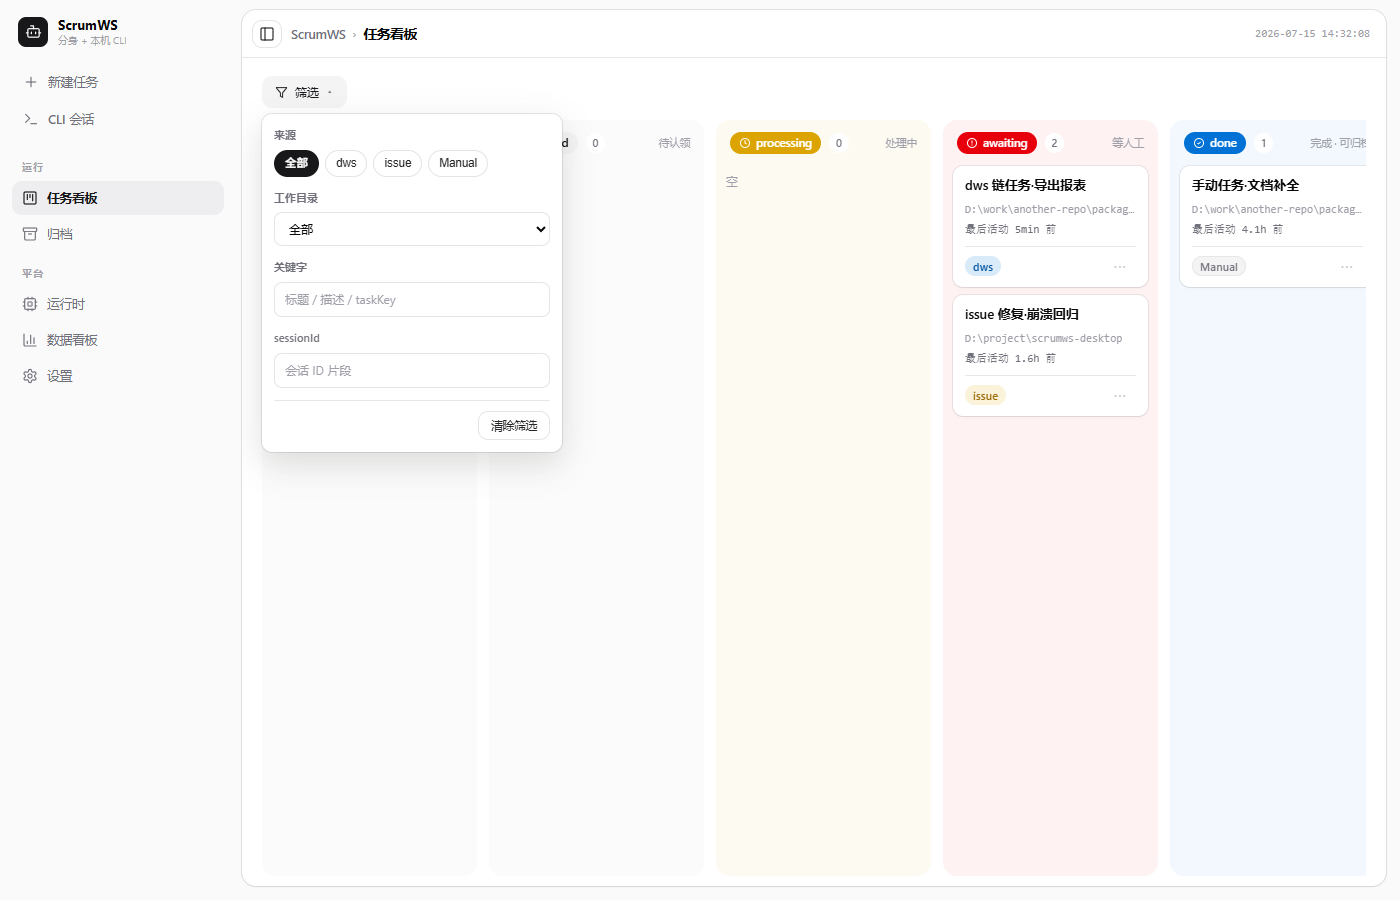
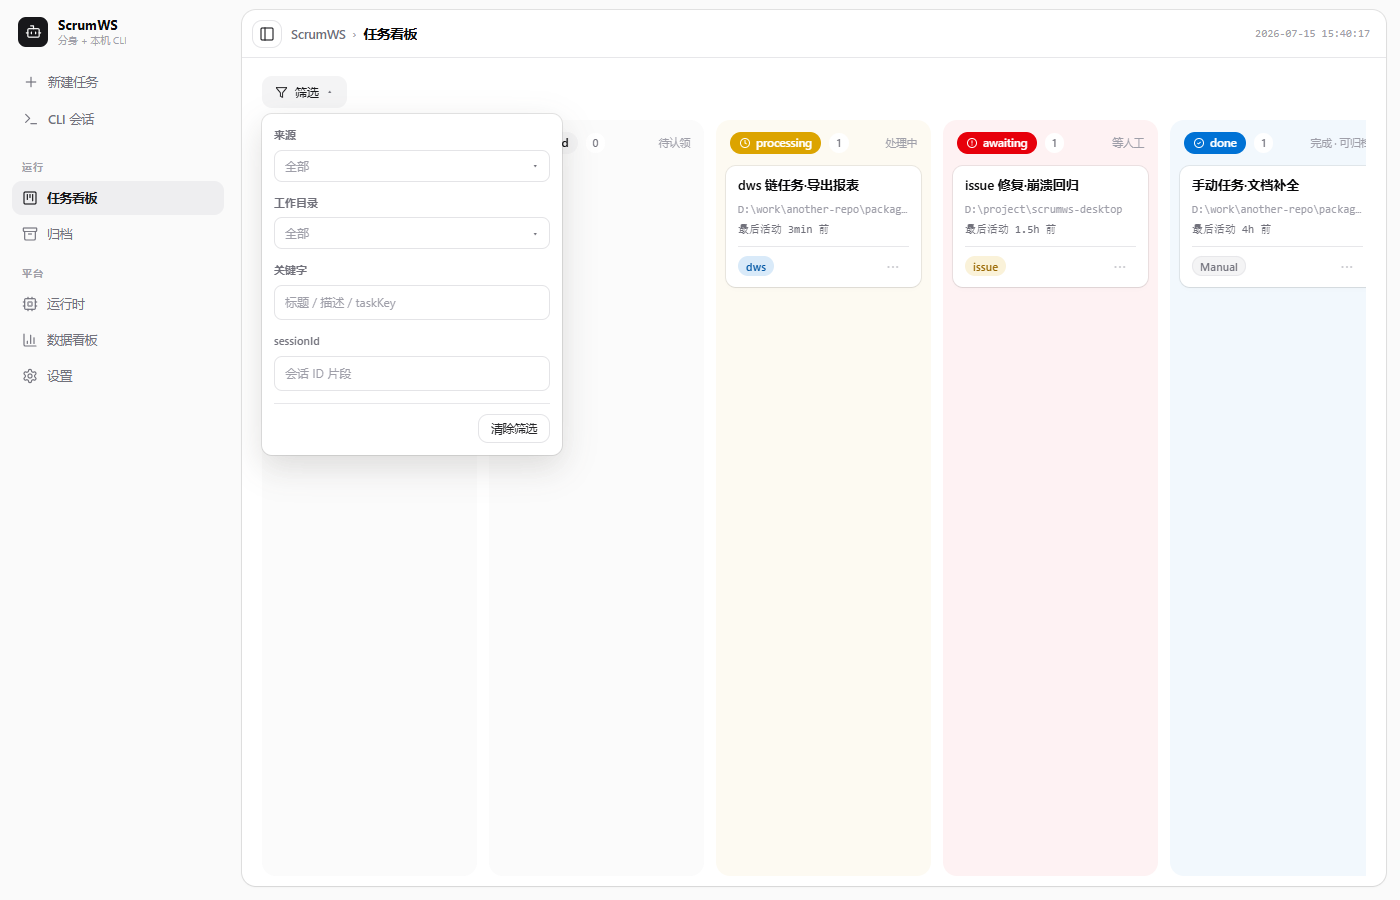
任务看板筛选：来源/工作目录改自定义下拉（不用原生 select）
承接 #21 收尾。筛选面板里的来源、工作目录两项从原来的 chip / 原生 <select> 统一改为自定义下拉，
选项面板对齐新建任务表单的工作目录范式（.cwd-menu：popover / mono 路径 / 截断省略 / hover-accent / 选中 ✓）。

- index.html：删 .fp-chips/.fp-chip；新增 .fp-dd*（触发按钮 + .fp-dd-menu 选项面板）。
  #fpSourceChips（chips）与 #fpCwd（<select>）→ 两个 .fp-dd（fpSourceBtn/Menu、fpCwdBtn/Menu）。
- app.js：新增 makeFilterDropdown 工厂（来源/工作目录共用；菜单打开时按 items() 现取选项永远最新、
  触发按钮标签随选择更新、点外关闭）。updateBoardFilterOptions 只维护 boardSources/boardCwds 数据源；
  syncBoardFilterUi 改走 srcDD/cwdDD.syncLabel()；initBoardFilter 建两下拉、删旧 chip/select 事件。

验证：真实 Chrome 24/24 PASS（docs/acceptance/board-filter-iteration/round-2.md + 截图）。

diff --git a/platform/public/app.js b/platform/public/app.js
@@ -463,9 +463,11 @@ window.openCardMenu = openCardMenu;
 
 // ================= 看板筛选（来源 / 工作目录 / 关键字 / sessionId）=================
 // 视图层筛选：状态存 boardFilter，renderLifecycle 渲染前按 matchesBoardFilter 过滤各桶（计数随之显可见数）。
-// 来源 / 工作目录选项从真实任务数据动态生成（不写死），关键字 / sessionId 走子串匹配。
+// 来源 / 工作目录用自定义下拉（不用原生 select，选项面板对齐新建任务 .cwd-menu 范式），选项从真实任务数据动态取；
+// 关键字 / sessionId 走子串匹配。
 let boardFilter = { source: '', cwd: '', keyword: '', sessionId: '' };
-let _boardFilterOptSig = '';   // 选项签名：数据变了才重建 chip/option DOM，避免每次刷新清空用户交互
+let boardSources = [], boardCwds = [];   // 真实任务里出现过的来源 / 工作目录全集（下拉选项数据源）
+let srcDD = null, cwdDD = null;           // 两个自定义下拉实例（initBoardFilter 里建）
 
 function cwdOf(t) { return t.cwd || t.cli?.cwd || ''; }
 
@@ -489,34 +491,60 @@ function allLifecycleTasks(lifecycle) {
     .filter(Boolean).flat();
 }
 
-// 依真实数据刷新筛选面板选项（保留当前选择；选项集不变则不重建 DOM，不打断用户交互）
+// 自定义筛选下拉工厂（来源 / 工作目录共用一套；选项面板 = .fp-dd-menu，菜单每次打开按 items() 现取，选项永远最新）
+function makeFilterDropdown({ btnId, menuId, items, getValue, onPick }) {
+  const btn = $(btnId), menu = $(menuId);
+  if (!btn || !menu) return null;
+  const labelEl = btn.querySelector('.fp-dd-label');
+  let outside = null;
+  const close = () => {
+    menu.classList.remove('open'); btn.classList.remove('open');
+    if (outside) { document.removeEventListener('mousedown', outside, true); outside = null; }
+  };
+  const render = () => {
+    const cur = getValue();
+    const list = items();
+    menu.innerHTML = list.length
+      ? list.map((it) => `<div class="fp-dd-item${it.value === cur ? ' active' : ''}" role="option" data-val="${escapeAttr(it.value)}"><span class="fp-dd-path" title="${escapeAttr(it.title || it.label)}">${escapeHtml(it.label)}</span><span class="fp-dd-check">✓</span></div>`).join('')
+      : `<div class="cwd-empty">暂无可选项</div>`;
+  };
+  const open = () => {
+    render(); menu.classList.add('open'); btn.classList.add('open');
+    outside = (e) => { if (!menu.contains(e.target) && !btn.contains(e.target)) close(); };
+    setTimeout(() => document.addEventListener('mousedown', outside, true), 0);
+  };
+  btn.addEventListener('click', () => (menu.classList.contains('open') ? close() : open()));
+  menu.addEventListener('click', (e) => {
+    const it = e.target.closest('.fp-dd-item'); if (!it) return;
+    onPick(it.dataset.val); close();
+  });
+  const syncLabel = () => {
+    const cur = getValue();
+    const found = items().find((i) => i.value === cur);
+    labelEl.textContent = found ? found.label : '全部';
+    labelEl.title = found ? (found.title || found.label) : '';
+    labelEl.classList.toggle('dim', !cur);
+  };
+  return { syncLabel, close };
+}
+
+const sourceDropItems = () => [{ value: '', label: '全部' }, ...boardSources.map((s) => ({ value: s, label: sourceLabel(s) }))];
+const cwdDropItems = () => [{ value: '', label: '全部' }, ...boardCwds.map((c) => ({ value: c, label: c.length > 44 ? '…' + c.slice(-42) : c, title: c }))];
+
+// 依真实数据刷新筛选选项数据源（选中项若已不存在则回落全部）；菜单是打开时现取，不必重建 DOM
 function updateBoardFilterOptions(lifecycle) {
   const all = allLifecycleTasks(lifecycle);
-  const sources = [...new Set(all.map((t) => t.source).filter(Boolean))].sort();
-  const cwds = [...new Set(all.map(cwdOf).filter(Boolean))].sort();
-  const sig = JSON.stringify([sources, cwds]);
-  if (sig !== _boardFilterOptSig) {
-    _boardFilterOptSig = sig;
-    const chips = $('fpSourceChips');
-    if (chips) chips.innerHTML = ['', ...sources].map((s) =>
-      `<button class="fp-chip" data-src="${escapeAttr(s)}">${s ? escapeHtml(sourceLabel(s)) : '全部'}</button>`).join('');
-    const sel = $('fpCwd');
-    if (sel) sel.innerHTML = `<option value="">全部</option>` + cwds.map((c) => {
-      const short = c.length > 44 ? '…' + c.slice(-42) : c;
-      return `<option value="${escapeAttr(c)}">${escapeHtml(short)}</option>`;
-    }).join('');
-  }
-  // 选中项因数据变化不复存在 → 回落全部
-  if (boardFilter.source && !sources.includes(boardFilter.source)) boardFilter.source = '';
-  if (boardFilter.cwd && !cwds.includes(boardFilter.cwd)) boardFilter.cwd = '';
+  boardSources = [...new Set(all.map((t) => t.source).filter(Boolean))].sort();
+  boardCwds = [...new Set(all.map(cwdOf).filter(Boolean))].sort();
+  if (boardFilter.source && !boardSources.includes(boardFilter.source)) boardFilter.source = '';
+  if (boardFilter.cwd && !boardCwds.includes(boardFilter.cwd)) boardFilter.cwd = '';
   syncBoardFilterUi();
 }
 
-// 把 boardFilter 反映到面板 UI（chip 高亮 / select 值 / 输入框 / 徽章）
+// 把 boardFilter 反映到面板 UI（下拉标签 / 输入框 / 激活数徽章）
 function syncBoardFilterUi() {
-  document.querySelectorAll('#fpSourceChips .fp-chip').forEach((c) =>
-    c.classList.toggle('active', (c.dataset.src || '') === boardFilter.source));
-  const sel = $('fpCwd'); if (sel && sel.value !== boardFilter.cwd) sel.value = boardFilter.cwd;
+  srcDD?.syncLabel();
+  cwdDD?.syncLabel();
   const kw = $('fpKeyword'); if (kw && kw.value !== boardFilter.keyword) kw.value = boardFilter.keyword;
   const sid = $('fpSessionId'); if (sid && sid.value !== boardFilter.sessionId) sid.value = boardFilter.sessionId;
   const n = ['source', 'cwd', 'keyword', 'sessionId'].filter((k) => boardFilter[k]).length;
@@ -561,7 +589,7 @@ function renderLifecycle(lifecycle) {
   }
 }
 
-// ---- 筛选面板交互（按钮开合 / chip / select / 输入 / 清除 / 点外关闭）----
+// ---- 筛选面板交互（按钮开合 / 来源·工作目录自定义下拉 / 输入 / 清除 / 点外关闭）----
 (function initBoardFilter() {
   const btn = $('boardFilterBtn');
   const panel = $('boardFilterPanel');
@@ -569,6 +597,7 @@ function renderLifecycle(lifecycle) {
   let outsideCloser = null;
   const close = () => {
     panel.classList.remove('open'); btn.classList.remove('on');
+    srcDD?.close(); cwdDD?.close();   // 收面板时一并收内部下拉
     if (outsideCloser) { document.removeEventListener('mousedown', outsideCloser, true); outsideCloser = null; }
   };
   const open = () => {
@@ -577,12 +606,15 @@ function renderLifecycle(lifecycle) {
     setTimeout(() => document.addEventListener('mousedown', outsideCloser, true), 0);
   };
   btn.addEventListener('click', () => (panel.classList.contains('open') ? close() : open()));
-  $('fpSourceChips')?.addEventListener('click', (e) => {
-    const chip = e.target.closest('.fp-chip'); if (!chip) return;
-    boardFilter.source = chip.dataset.src || '';
-    applyBoardFilter();
+  // 来源 / 工作目录：自定义下拉（选项面板同款），选项按真实数据现取
+  srcDD = makeFilterDropdown({
+    btnId: 'fpSourceBtn', menuId: 'fpSourceMenu', items: sourceDropItems,
+    getValue: () => boardFilter.source, onPick: (v) => { boardFilter.source = v; applyBoardFilter(); },
   });
-  $('fpCwd')?.addEventListener('change', (e) => { boardFilter.cwd = e.target.value; applyBoardFilter(); });
+  cwdDD = makeFilterDropdown({
+    btnId: 'fpCwdBtn', menuId: 'fpCwdMenu', items: cwdDropItems,
+    getValue: () => boardFilter.cwd, onPick: (v) => { boardFilter.cwd = v; applyBoardFilter(); },
+  });
   $('fpKeyword')?.addEventListener('input', (e) => { boardFilter.keyword = e.target.value.trim(); applyBoardFilter(); });
   $('fpSessionId')?.addEventListener('input', (e) => { boardFilter.sessionId = e.target.value.trim(); applyBoardFilter(); });
   $('fpClear')?.addEventListener('click', () => {

diff --git a/platform/public/index.html b/platform/public/index.html
@@ -340,11 +340,28 @@ select.field-input{background:var(--card)}
 .filter-panel.open{display:flex}
 .fp-group{display:flex;flex-direction:column;gap:6px}
 .fp-label{font-size:11px;color:var(--mut);font-weight:600}
-.fp-chips{display:flex;flex-wrap:wrap;gap:6px}
-.fp-chip{padding:4px 10px;font-size:11.5px;border:1px solid var(--input);border-radius:999px;background:var(--card);color:var(--ink2);
-  cursor:pointer;line-height:1.5;transition:background .12s,border-color .12s,color .12s}
-.fp-chip:hover{background:var(--accent);border-color:var(--hair2);color:var(--accent-foreground)}
-.fp-chip.active{background:var(--primary);color:var(--primary-foreground);border-color:transparent;font-weight:600}
+/* 来源 / 工作目录：自定义下拉（不用原生 select；选项面板对齐新建任务 .cwd-menu 范式）*/
+.fp-dd{position:relative}
+.fp-dd-btn{display:flex;align-items:center;gap:8px;width:100%;font-family:var(--sans);font-size:12px;padding:7px 10px;
+  border:1px solid var(--input);border-radius:var(--r-md);background:var(--card);color:var(--ink2);cursor:pointer;outline:none;
+  transition:border-color .15s,background .15s}
+.fp-dd-btn:hover{background:var(--raise);border-color:var(--hair2)}
+.fp-dd-btn.open{border-color:var(--ring);box-shadow:var(--focus-ring)}
+.fp-dd-label{flex:1;text-align:left;overflow:hidden;text-overflow:ellipsis;white-space:nowrap}
+.fp-dd-label.dim{color:var(--dim)}
+.fp-dd-caret{flex:none;color:var(--mut);font-size:9px;transition:transform .15s}
+.fp-dd-btn.open .fp-dd-caret{transform:rotate(180deg)}
+.fp-dd-menu{position:absolute;top:calc(100% + 4px);left:0;right:0;background:var(--popover);box-shadow:var(--ring1),var(--shadow);
+  border-radius:var(--r-lg);padding:5px;z-index:1200;max-height:230px;overflow-y:auto;display:none;animation:rise .12s}
+.fp-dd-menu.open{display:block}
+.fp-dd-item{display:flex;align-items:center;gap:8px;padding:7px 9px;border-radius:var(--r-md);cursor:pointer;
+  font-family:var(--mono);font-size:11.5px;color:var(--ink2)}
+.fp-dd-item .fp-dd-path{flex:1;min-width:0;overflow:hidden;text-overflow:ellipsis;white-space:nowrap}
+.fp-dd-item .fp-dd-src{margin-left:auto;font-family:var(--sans);font-size:9px;font-weight:600;color:var(--mut);flex:none;
+  background:var(--muted);padding:1px 6px;border-radius:999px}
+.fp-dd-item .fp-dd-check{margin-left:auto;color:var(--brand);font-size:12px;font-weight:700;opacity:0;flex:none}
+.fp-dd-item.active .fp-dd-check{opacity:1}
+.fp-dd-item:hover,.fp-dd-item.active{background:var(--accent);color:var(--accent-foreground)}
 .filter-panel .field-input{padding:7px 10px;font-size:12px}
 .fp-foot{display:flex;justify-content:flex-end;border-top:1px solid var(--hair);padding-top:10px}
 .fp-foot .btn{font-size:11.5px;padding:5px 12px}
@@ -718,11 +735,17 @@ pre.diff-new{background:color-mix(in oklab, var(--success) 9%, transparent);bord
               <div class="filter-panel" id="boardFilterPanel">
                 <div class="fp-group">
                   <div class="fp-label">来源</div>
-                  <div class="fp-chips" id="fpSourceChips"></div>
+                  <div class="fp-dd" id="fpSourceDD">
+                    <button type="button" class="fp-dd-btn" id="fpSourceBtn"><span class="fp-dd-label dim">全部</span><span class="fp-dd-caret">▾</span></button>
+                    <div class="fp-dd-menu" id="fpSourceMenu" role="listbox"></div>
+                  </div>
                 </div>
                 <div class="fp-group">
                   <div class="fp-label">工作目录</div>
-                  <select class="field-input" id="fpCwd"><option value="">全部</option></select>
+                  <div class="fp-dd" id="fpCwdDD">
+                    <button type="button" class="fp-dd-btn" id="fpCwdBtn"><span class="fp-dd-label dim">全部</span><span class="fp-dd-caret">▾</span></button>
+                    <div class="fp-dd-menu" id="fpCwdMenu" role="listbox"></div>
+                  </div>
                 </div>
                 <div class="fp-group">
                   <div class="fp-label">关键字</div>

diff --git a/docs/acceptance/board-filter-iteration/round-2.md b/docs/acceptance/board-filter-iteration/round-2.md
@@ -1,0 +1,41 @@
+# Round 2 — 来源/工作目录改自定义下拉 · 全绿
+
+真实 Chrome 驱动 `http://127.0.0.1:8790/#/board`（合成数据 4 任务），`scripts/verify-ui.mjs` 输出 **24/24 PASS**：
+
+```
+PASS  渲染 4 张卡（实际 4）
+PASS  plan 卡片存在
+PASS  卡片显示工作目录（D:\project\scrumws-desktop）
+PASS  卡片显示最后活动时间（最后活动 3min 前）
+PASS  req2：卡片上半部分已去掉状态/耗时/心跳/描述等其余信息
+PASS  req2：底部标签 + 操作按钮保留
+PASS  req5：manual 来源标签显示 Manual（实际 Manual）
+PASS  req6：plan 提示「待定」（实际 待定）
+PASS  req6：processing 提示「处理中」（实际 处理中）
+PASS  req1：工具行有「筛选」按钮
+PASS  req1：点击打开筛选面板
+PASS  来源/工作目录改为自定义下拉（无原生 select，选项面板同款 .fp-dd-menu）
+PASS  req1：点击来源下拉展开选项面板
+PASS  req1：来源选项取自真实数据（全部/dws/issue/Manual）
+PASS  req1：按 Manual 筛选后只剩 manual 卡（2 张）
+PASS  req1：来源下拉触发按钮显示当前选择（Manual）
+PASS  req1：计数随筛选更新（plan=1 done=1 proc=0）
+PASS  req1：筛选徽章显示激活数（1）
+PASS  req3：工作目录选项取自真实数据（3 项含全部）
+PASS  req3：按工作目录筛选（2 张，标题 dws 链任务·导出报表,手动任务·文档补全）
+PASS  req4：关键字「登录」→ 1 张（手动任务·登录页重构）
+PASS  req4：sessionId「bbbb1111」→ 命中 issue 卡（issue 修复·崩溃回归）
+PASS  清除筛选：恢复 4 张卡 + 徽章隐藏（4 张）
+PASS  无 JS 运行时错误
+
+ALL PASS
+```
+
+关键新断言：`#boardFilterPanel` 内**无原生 `<select>`**，来源/工作目录均为 `.fp-dd-btn` 触发 + `.fp-dd-menu`
+选项面板；来源下拉点击展开、选项 `全部/dws/issue/Manual` 取自真实数据、选中后触发按钮标签更新为 `Manual`；
+工作目录下拉选项取自真实 cwd（含「全部」共 3 项）。
+
+## 截图
+- `round-1/filter-source-dropdown.png` —— 来源自定义下拉展开（选项面板同 `.cwd-menu` 范式，选中项带 ✓）。
+- `round-1/filter-cwd-dropdown.png` —— 工作目录自定义下拉展开（mono 路径、截断省略）。
+- `round-1/filter-panel.png` —— 收起态筛选面板（来源 / 工作目录均为下拉按钮）。

diff --git a/docs/acceptance/board-filter-iteration/plan.md b/docs/acceptance/board-filter-iteration/plan.md
@@ -47,5 +47,27 @@
 SCRUMWS_DATA_ROOT=<tmp> node docs/acceptance/board-filter-iteration/scripts/seed-tasks.mjs
 SCRUMWS_DATA_ROOT=<tmp> SCRUMWS_PORT=8790 node platform/standalone.js &
 npm install puppeteer-core --no-save --prefer-offline
-node docs/acceptance/board-filter-iteration/scripts/verify-ui.mjs   # 20/20 PASS
+node docs/acceptance/board-filter-iteration/scripts/verify-ui.mjs   # 24/24 PASS
 ```
+
+---
+
+## 迭代 2（round-2）：来源 / 工作目录改自定义下拉
+
+### 需求
+1. 工作目录筛选的选项面板 UI 优化，参考新建任务表单的工作目录选项处理（自定义下拉，非原生 select）。
+2. 来源筛选由 chip 改为下拉框，选项面板与工作目录一致，不用浏览器原生 select。
+
+### 改动
+- `index.html`：删 `.fp-chips/.fp-chip` 样式，新增 `.fp-dd*`（触发按钮 + `.fp-dd-menu` 选项面板，对齐新建任务
+  `.cwd-menu` 范式：popover / mono 路径 / 截断省略 / hover-accent / 选中 ✓）。HTML 把 `#fpSourceChips`（chips）与
+  `#fpCwd`（原生 `<select>`）替换为两个 `.fp-dd`（`fpSourceBtn/fpSourceMenu`、`fpCwdBtn/fpCwdMenu`）。
+- `app.js`：新增 `makeFilterDropdown({btnId,menuId,items,getValue,onPick})` 工厂（来源 / 工作目录共用；菜单打开时按
+  `items()` 现取、选项永远最新，触发按钮标签随选择更新，点外关闭）。`updateBoardFilterOptions` 只维护
+  `boardSources/boardCwds` 数据源 + 回落失效选择；`syncBoardFilterUi` 改走 `srcDD/cwdDD.syncLabel()`；`initBoardFilter`
+  建两个下拉、删除旧 chip/select 事件。收筛选面板时一并 `srcDD/cwdDD.close()`。
+
+### 验证
+`scripts/verify-ui.mjs` 更新为下拉断言，真实 Chrome **24/24 PASS**（见 `round-2.md`）——含「无原生 select、
+选项面板同款 `.fp-dd-menu`」「来源下拉展开/选项取真实数据/触发按钮标签更新」「工作目录下拉选项取真实 cwd」。
+截图：`round-1/filter-source-dropdown.png`、`round-1/filter-cwd-dropdown.png`、`round-1/filter-panel.png`。